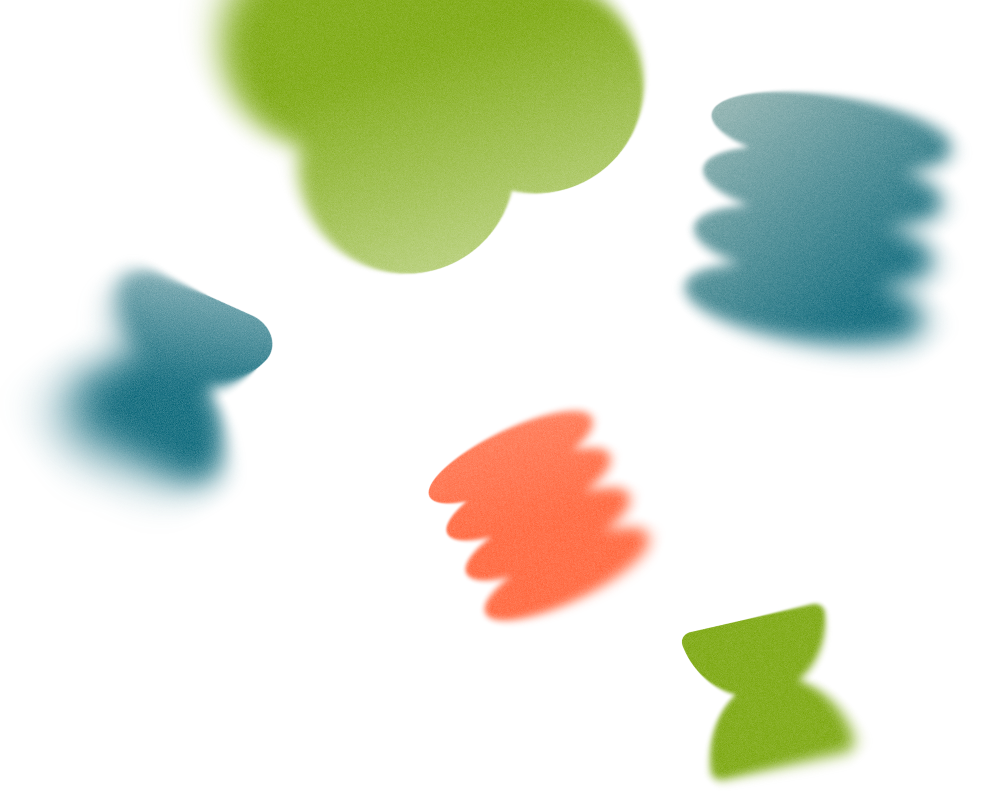
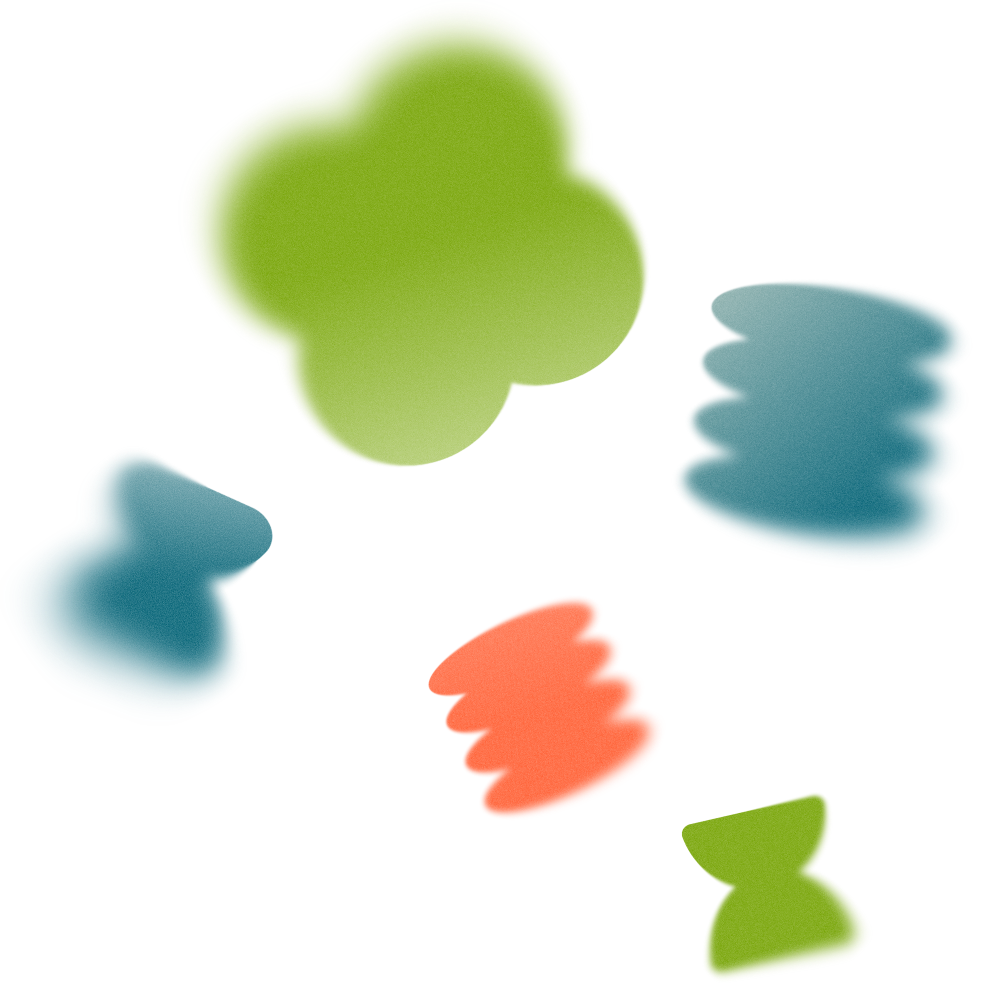
figures

diff --git a/src/stylesheets/index.css b/src/stylesheets/index.css
@@ -2,7 +2,7 @@
     width: 100%;
     position: sticky;
     top: 0;
-    z-index: 1000;
+    z-index: 4;
     background-color: var(--bg-color);
     .header-wrapper {
     display: flex;
@@ -31,6 +31,35 @@
         a:hover {
             color: var(--orange);
         }
+    }
+}
+
+.main-figures {
+    position: absolute;
+    z-index: 1000;
+    .top-figures {
+        position: absolute;
+        z-index: 1000;
+        top: -140px;
+        left: 370px;
+        img {
+            width: 451px;
+        }
+    }
+    .main-figure-1 {
+        position: absolute;
+        z-index: 1000;
+        img{width: 325px;}
+        left: -122px;
+        top: 320px;
+    }
+
+    .main-figure-2 {
+        position: relative;
+        z-index: 1000;
+        img{width: 325px;}
+        top: 22px;
+        right: -1300px;
     }
 }
 

diff --git a/src/javascripts/index.js b/src/javascripts/index.js
@@ -44,4 +44,26 @@ prevBtn.addEventListener('click', () => {
   updateCards();
 });
 
+// фигуры
+document.addEventListener('DOMContentLoaded', () => {
+    const shapes = document.querySelectorAll('.main-figures');
+
+    function moveShapes() {
+        const scrollY = window.scrollY;   // сколько прокручено сверху
+
+        shapes.forEach(shape => {
+            const speed = parseFloat(shape.dataset.speed) || 0.4;  // скорость движения
+            const move = scrollY * speed * -1;   // отрицательное = вверх при скролле вниз
+
+            shape.style.transform = `translateY(${move}px)`;
+        });
+    }
+
+    // Запускаем при скролле
+    window.addEventListener('scroll', moveShapes, { passive: true });
+
+    // Первый вызов
+    moveShapes();
+});
+
 

diff --git a/src/index.html b/src/index.html
@@ -21,7 +21,11 @@
       </div>
     </div>
 
-  
+  <div class="main-figures">
+    <div class="top-figures"><img src="images/main-figures.png"></div>
+    <div class="main-figure-1"><img src="images/main-figure-1.png"></div>
+    <div class="main-figure-2"><img src="images/main-figure-2.png"></div>
+  </div>
 
     <div class="hero-section container">
       <div class="hero-section-title">